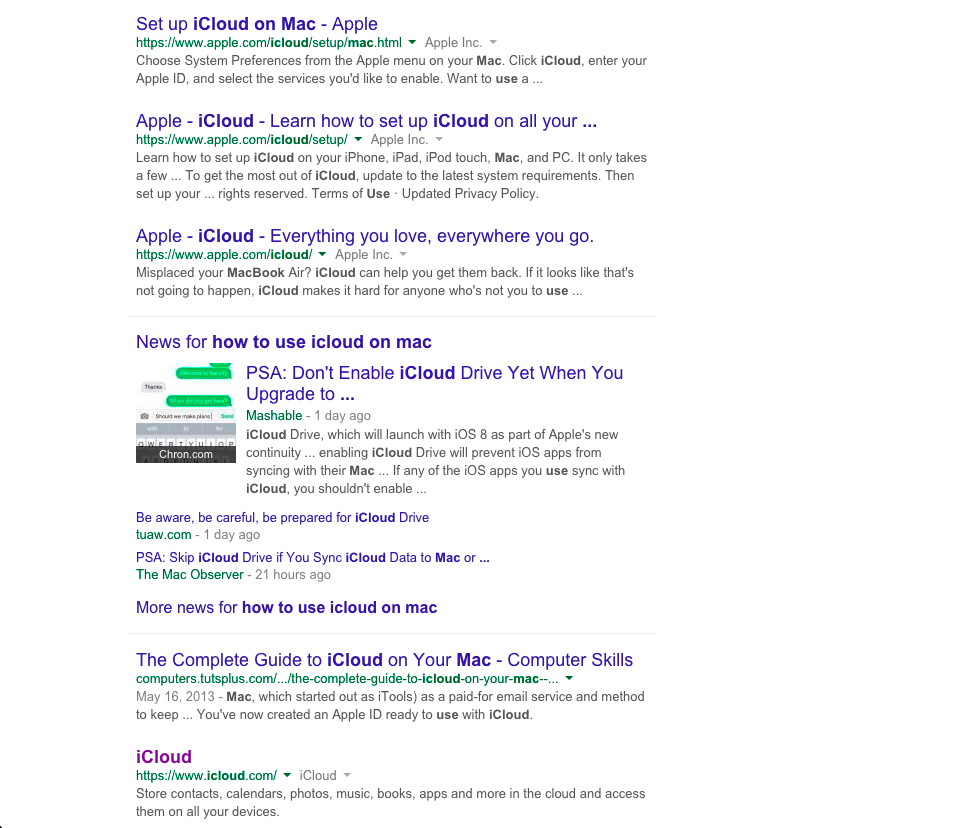
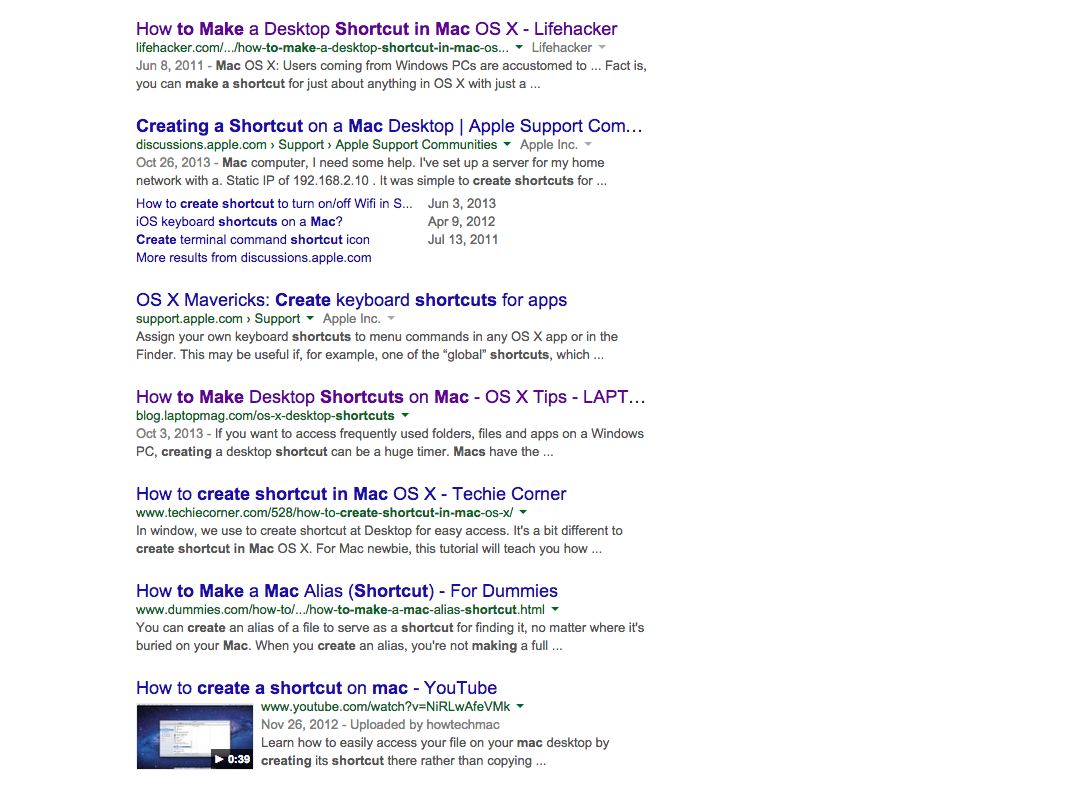
Search for creating aliases and help lines

Changed region(s): [[0.1233, 0.0, 0.6783, 1.0]]

diff --git a/js/jquery.domline.min.js b/js/jquery.domline.min.js
@@ -1,0 +1,27 @@
+/*!
+ * jQuery DOM Line plugin v0.1.3
+ * Copyright (c) 2011 Gilmore Davidson
+ * https://gilmoreorless.github.com/jquery-dom-line/
+ *
+ * @license Open source under the MIT licence: http://gilmoreorless.mit-license.org/2011/
+ */
+!function(t,e){function r(t){return t.x===e&&t.y===e?!1:(t.x=parseFloat(t.x)||0,t.y=parseFloat(t.y)||0,t)}function a(e,r,a){var n=[e.x,e.y,r.x,r.y,a.w,a.h].join(",");if(o[n])return t.extend({},o[n]);var i,s=Math.abs(r.x-e.x),l=Math.abs(r.y-e.y),h=s&&l?Math.sqrt(s*s+l*l):s||l,d=Math.min(e.x,r.x),u=Math.min(e.y,r.y),x=d+s/2,c=u+l/2,p=x-h/2,y=c,b=o[n]={width:h};return a.w>1&&(b.width-=a.w-1),a.h>1&&(y-=a.h/2),a.bw&&(p+=a.bw/2),a.bh&&(y+=a.bh/2),t.support.matrixFilter||(p-=a.l,y-=a.t),p=Math.round(p),y=Math.round(y),b.width=Math.round(b.width),i=s?l?(180+180*Math.atan2(e.y-r.y,e.x-r.x)/Math.PI+360)%360:e.x<r.x?0:180:e.y<r.y?90:270,b.transform="rotate("+i+"deg)",b.left=p,b.top=y,b.extra={center:{x:x,y:c},rotation:{deg:i,rad:i%360*Math.PI/180}},t.extend({},b)}var o={};t.line=function(e,o,n){if(e=r(e),o=r(o),!e||!o)return!1;var i,s,l,h=t.extend({},t.line.defaults,n||{}),d=h.elem?t(h.elem):t("<div/>",{"class":h.className}),u={position:"absolute",backgroundColor:h.lineColor,width:1,height:h.lineWidth},x=d;return d.css(u),d.length&&!d[0].parentNode&&d.appendTo("body"),s={w:d.outerWidth(),h:d.outerHeight(),l:parseFloat(d.css("marginLeft"))||0,t:parseFloat(d.css("marginTop"))||0},t.support.matrixFilter&&(s.bw=(parseFloat(d.css("borderLeftWidth"))||0)+(parseFloat(d.css("borderRightWidth"))||0),s.bh=(parseFloat(d.css("borderTopWidth"))||0)+(parseFloat(d.css("borderBottomWidth"))||0)),i=a(e,o,s),l=i.extra,delete i.extra,d.css(i),h.returnValues&&(x={from:e,to:o,center:l.center,rotation:l.rotation}),x},t.line.defaults={elem:"",className:"jquery-line",lineWidth:1,lineColor:"#000",returnValues:!1}}(jQuery);
+/*
+ * transform: A jQuery cssHooks adding cross-browser 2d transform capabilities to $.fn.css() and $.fn.animate()
+ *
+ * limitations:
+ * - requires jQuery 1.4.3+
+ * - Should you use the *translate* property, then your elements need to be absolutely positionned in a relatively positionned wrapper **or it will fail in IE678**.
+ * - transformOrigin is not accessible
+ *
+ * latest version and complete README available on Github:
+ * https://github.com/louisremi/jquery.transform.js
+ *
+ * Copyright 2011 @louis_remi
+ * Licensed under the MIT license.
+ *
+ * This saved you an hour of work?
+ * Send me music http://www.amazon.co.uk/wishlist/HNTU0468LQON
+ *
+ */
+if(!jQuery.cssHooks.transform)!function(t,e,r,s,n){function a(e){e=e.split(")");var r,n,a,i=t.trim,o=-1,c=e.length-1,p=O?new Float32Array(6):[],l=O?new Float32Array(6):[],f=O?new Float32Array(6):[1,0,0,1,0,0];for(p[0]=p[3]=f[0]=f[3]=1,p[1]=p[2]=p[4]=p[5]=0;++o<c;){switch(r=e[o].split("("),n=i(r[0]),a=r[1],l[0]=l[3]=1,l[1]=l[2]=l[4]=l[5]=0,n){case Y+"X":l[4]=parseInt(a,10);break;case Y+"Y":l[5]=parseInt(a,10);break;case Y:a=a.split(","),l[4]=parseInt(a[0],10),l[5]=parseInt(a[1]||0,10);break;case j:a=u(a),l[0]=s.cos(a),l[1]=s.sin(a),l[2]=-s.sin(a),l[3]=s.cos(a);break;case H+"X":l[0]=+a;break;case H+"Y":l[3]=a;break;case H:a=a.split(","),l[0]=a[0],l[3]=a.length>1?a[1]:a[0];break;case $+"X":l[2]=s.tan(u(a));break;case $+"Y":l[1]=s.tan(u(a));break;case z:a=a.split(","),l[0]=a[0],l[1]=a[1],l[2]=a[2],l[3]=a[3],l[4]=parseInt(a[4],10),l[5]=parseInt(a[5],10)}f[0]=p[0]*l[0]+p[2]*l[1],f[1]=p[1]*l[0]+p[3]*l[1],f[2]=p[0]*l[2]+p[2]*l[3],f[3]=p[1]*l[2]+p[3]*l[3],f[4]=p[0]*l[4]+p[2]*l[5]+p[4],f[5]=p[1]*l[4]+p[3]*l[5]+p[5],p=[f[0],f[1],f[2],f[3],f[4],f[5]]}return f}function i(t){var e,r,n,a=t[0],i=t[1],o=t[2],c=t[3];return a*c-i*o?(e=s.sqrt(a*a+i*i),a/=e,i/=e,n=a*o+i*c,o-=a*n,c-=i*n,r=s.sqrt(o*o+c*c),o/=r,c/=r,n/=r,i*o>a*c&&(a=-a,i=-i,n=-n,e=-e)):e=r=n=0,[[Y,[+t[4],+t[5]]],[j,s.atan2(i,a)],[$+"X",s.atan(n)],[H,[e,r]]]}function o(e,r){var s,n,o,u,m={start:[],end:[]},x=-1;if(("none"==e||p(e))&&(e=""),("none"==r||p(r))&&(r=""),e&&r&&!r.indexOf("matrix")&&g(e).join()==g(r.split(")")[0]).join()&&(m.origin=e,e="",r=r.slice(r.indexOf(")")+1)),e||r){if(e&&r&&l(e)!=l(r))m.start=i(a(e)),m.end=i(a(r));else for(e&&(e=e.split(")"))&&(s=e.length),r&&(r=r.split(")"))&&(s=r.length);++x<s-1;)e[x]&&(n=e[x].split("(")),r[x]&&(o=r[x].split("(")),u=t.trim((n||o)[0]),f(m.start,c(u,n?n[1]:0)),f(m.end,c(u,o?o[1]:0));return m}}function c(t,e){var r,s=+!t.indexOf(H),n=t.replace(/e[XY]/,"e");switch(t){case Y+"Y":case H+"Y":e=[s,e?parseFloat(e):s];break;case Y+"X":case Y:case H+"X":r=1;case H:e=e?(e=e.split(","))&&[parseFloat(e[0]),parseFloat(e.length>1?e[1]:t==H?r||e[0]:s+"")]:[s,s];break;case $+"X":case $+"Y":case j:e=e?u(e):0;break;case z:return i(e?g(e):[1,0,0,1,0,0])}return[[n,e]]}function p(t){return v.test(t)}function l(t){return t.replace(/(?:\([^)]*\))|\s/g,"")}function f(t,e,r){for(;r=e.shift();)t.push(r)}function u(t){return~t.indexOf("deg")?parseInt(t,10)*(2*s.PI/360):~t.indexOf("grad")?parseInt(t,10)*(s.PI/200):parseFloat(t)}function g(t){return t=/([^,]*),([^,]*),([^,]*),([^,]*),([^,p]*)(?:px)?,([^)p]*)(?:px)?/.exec(t),[t[1],t[2],t[3],t[4],t[5],t[6]]}for(var m,x,d,k,h=r.createElement("div"),y=h.style,b="Transform",I=["O"+b,"ms"+b,"Webkit"+b,"Moz"+b],M=I.length,O=("Float32Array"in e),X=/Matrix([^)]*)/,v=/^\s*matrix\(\s*1\s*,\s*0\s*,\s*0\s*,\s*1\s*(?:,\s*0(?:px)?\s*){2}\)\s*$/,w="transform",F="transformOrigin",Y="translate",j="rotate",H="scale",$="skew",z="matrix";M--;)I[M]in y&&(t.support[w]=m=I[M],t.support[F]=m+"Origin");m||(t.support.matrixFilter=x=""===y.filter),t.cssNumber[w]=t.cssNumber[F]=!0,m&&m!=w?(t.cssProps[w]=m,t.cssProps[F]=m+"Origin",m=="Moz"+b?d={get:function(e,r){return r?t.css(e,m).split("px").join(""):e.style[m]},set:function(t,e){t.style[m]=/matrix\([^)p]*\)/.test(e)?e.replace(/matrix((?:[^,]*,){4})([^,]*),([^)]*)/,z+"$1$2px,$3px"):e}}:/^1\.[0-5](?:\.|$)/.test(t.fn.jquery)&&(d={get:function(e,r){return r?t.css(e,m.replace(/^ms/,"Ms")):e.style[m]}})):x&&(d={get:function(e,r,s){var a,i,o=r&&e.currentStyle?e.currentStyle:e.style;return o&&X.test(o.filter)?(a=RegExp.$1.split(","),a=[a[0].split("=")[1],a[2].split("=")[1],a[1].split("=")[1],a[3].split("=")[1]]):a=[1,0,0,1],t.cssHooks[F]?(i=t._data(e,"transformTranslate",n),a[4]=i?i[0]:0,a[5]=i?i[1]:0):(a[4]=o?parseInt(o.left,10)||0:0,a[5]=o?parseInt(o.top,10)||0:0),s?a:z+"("+a+")"},set:function(e,r,s){var n,i,o,c,p=e.style;s||(p.zoom=1),r=a(r),i=["Matrix(M11="+r[0],"M12="+r[2],"M21="+r[1],"M22="+r[3],"SizingMethod='auto expand'"].join(),o=(n=e.currentStyle)&&n.filter||p.filter||"",p.filter=X.test(o)?o.replace(X,i):o+" progid:DXImageTransform.Microsoft."+i+")",t.cssHooks[F]?t.cssHooks[F].set(e,r):((c=t.transform.centerOrigin)&&(p["margin"==c?"marginLeft":"left"]=-(e.offsetWidth/2)+e.clientWidth/2+"px",p["margin"==c?"marginTop":"top"]=-(e.offsetHeight/2)+e.clientHeight/2+"px"),p.left=r[4]+"px",p.top=r[5]+"px")}}),d&&(t.cssHooks[w]=d),k=d&&d.get||t.css,t.fx.step.transform=function(e){var r,n,a,i,c=e.elem,p=e.start,l=e.end,f=e.pos,u="",g=1e5;for(p&&"string"!=typeof p||(p||(p=k(c,m)),x&&(c.style.zoom=1),l=l.split("+=").join(p),t.extend(e,o(p,l)),p=e.start,l=e.end),r=p.length;r--;)switch(n=p[r],a=l[r],i=0,n[0]){case Y:i="px";case H:i||(i=""),u=n[0]+"("+s.round((n[1][0]+(a[1][0]-n[1][0])*f)*g)/g+i+","+s.round((n[1][1]+(a[1][1]-n[1][1])*f)*g)/g+i+")"+u;break;case $+"X":case $+"Y":case j:u=n[0]+"("+s.round((n[1]+(a[1]-n[1])*f)*g)/g+"rad)"+u}e.origin&&(u=e.origin+u),d&&d.set?d.set(c,u,1):c.style[m]=u},t.transform={centerOrigin:"margin"}}(jQuery,window,document,Math);

diff --git a/main.js b/main.js
@@ -3,6 +3,7 @@ requirejs.config({
 	paths: {
 		"jquery": "jquery-1.11.0.min",
 		"jqueryui": "jquery-ui-1.11.1.custom.min",
+		"jquery.domline": "jquery.domline.min"
 	},
 	
 	shim: {
@@ -13,11 +14,15 @@ requirejs.config({
 			"notify.min": {
 				export: "$",
 				deps: ['jquery']
+			},
+			"jquery.domline": {
+				export: "$",
+				deps: ['jquery']
 			}
 		}
 });
 
-require(["jquery", "vex.dialog.min", "imagesloaded.pkgd.min", "jqueryui", "jquery.layout-latest", "notify.min", "TOC", "CardManager"], function ($, dialog, imagesLoaded) {
+require(["jquery", "vex.dialog.min", "imagesloaded.pkgd.min", "jquery.domline", "jqueryui", "jquery.layout-latest", "notify.min", "TOC", "CardManager"], function ($, dialog, imagesLoaded) {
 	var pageLayout = $("body").layout({
 										applyDefaultStyles: true, resizable: false, slidable: false, closable: false,
 										spacing_open: 0, spacing_closed: 0,
@@ -115,6 +120,7 @@ require(["jquery", "vex.dialog.min", "imagesloaded.pkgd.min", "jqueryui", "jquer
 	
 	var started = false;
 	var shownHelp = false;
+	var fromSearch = false;
 	
 	var currentAd = undefined;
 	var inAd = false;
@@ -152,6 +158,11 @@ require(["jquery", "vex.dialog.min", "imagesloaded.pkgd.min", "jqueryui", "jquer
 	
 	imagesLoaded(document, onImagesLoaded);
 	
+	if (location.search != "") {
+		fromSearch = true;
+		loadContents(0, "Creating Aliases");
+	}
+	
 	function onImagesLoaded () {
 		$("#screen-cover").css("background-color", "rgba(0, 0, 0, .7)");
 
@@ -179,7 +190,78 @@ require(["jquery", "vex.dialog.min", "imagesloaded.pkgd.min", "jqueryui", "jquer
 		$("#screen-cover").hide();
 		$("#buy-now-container").hide();
 		
-		showLeftMessage("#left-message-intro", true);
+		if (!fromSearch) {
+			showLeftMessage("#left-message-intro", true);
+			
+			setTimeout(function () { drawLines(); }, 1500);
+		} else if (fromSearch) {
+			showLeftMessage("#left-message-help", true);
+			shownHelp = true;
+		}
+	}
+	
+	function drawLines () {
+		var elem1 = $("#popular");
+		var bounds1 = elem1[0].getBoundingClientRect();
+		var pt1 = { x: bounds1.left + bounds1.width * .5, y: bounds1.top + bounds1.height };
+		var popularX = bounds1.left + bounds1.width * .5;
+
+		var elem2 = $("#bottom-bar");
+		var bounds2 = elem2[0].getBoundingClientRect();
+		var pt2 = { x: bounds1.left + bounds1.width * .5, y: bounds2.top };
+		
+		var options = { lineWidth: 4, lineColor: "#FFEB5F" };
+				
+		$.line(pt1, pt2, options);
+		
+		elem1 = $("#search");
+		bounds1 = elem1[0].getBoundingClientRect();
+		pt1 = { x: bounds1.left + bounds1.width * .5, y: bounds1.top + bounds1.height };
+		var searchX = bounds1.left + bounds1.width * .5;
+		
+		elem2 = $("#left-message-intro");
+		var bounds3 = elem2[0].getBoundingClientRect();
+			
+		pt2 = { x: bounds1.left + bounds1.width * .5, y: (bounds3.top + bounds3.height + bounds2.top) * .5 };
+
+		$.line(pt1, pt2, options);
+		
+		if (searchX > popularX) {
+		
+			var elem3 = $("#content-pane");
+			var bounds4 = elem3[0].getBoundingClientRect();
+		
+			pt1 = { x: bounds4.left + bounds4.width, y: pt2.y };
+			
+			$.line(pt2, pt1, options);
+		
+			elem1 = $("#left-message-intro");
+			bounds1 = elem1[0].getBoundingClientRect();
+			elem2 = $("#nav-container");
+			bounds2 = elem2[0].getBoundingClientRect();
+		
+			pt2 = { x: pt1.x, y: (bounds1.top + bounds2.top) * .5 };
+		
+			$.line(pt1, pt2, options);
+		
+			elem1 = $("#toc-button");
+			bounds1 = elem1[0].getBoundingClientRect();
+			pt1 = { x: bounds1.left + bounds1.width * .5, y: bounds1.top + bounds1.height };
+		
+			$.line(pt2, { x: pt1.x, y: pt2.y }, options);
+			$.line({ x: pt1.x, y: pt2.y }, pt1, options);
+		} else {
+			elem1 = $("#toc-button");
+			bounds1 = elem1[0].getBoundingClientRect();
+			pt1 = { x: bounds1.left + bounds1.width * .5, y: bounds1.top + bounds1.height };
+		
+			$.line(pt2, { x: pt1.x, y: pt2.y }, options);
+			$.line({ x: pt1.x, y: pt2.y }, pt1, options);
+		}
+	}
+	
+	function eraseLines () {
+		$(".jquery-line").remove();
 	}
 	
 	function checkForCaptivate () {
@@ -204,6 +286,10 @@ require(["jquery", "vex.dialog.min", "imagesloaded.pkgd.min", "jqueryui", "jquer
 		pushContentDownForTitle();
 		
 		showLeftMessage("#left-message-intro", false);
+		
+		if ($("#left-message-intro").is(":visible")) {
+			setTimeout(function () { eraseLines(); drawLines(); }, 250);
+		}
 	}
 	
 	function pushContentDownForTitle () {
@@ -376,6 +462,7 @@ require(["jquery", "vex.dialog.min", "imagesloaded.pkgd.min", "jqueryui", "jquer
 	function playWatchIt () {
 		hideHints();
 		$(".left-message").css("display", "none");
+		eraseLines();
 		
 //		var check = $("#success-box");
 //		check.hide();
@@ -398,6 +485,7 @@ require(["jquery", "vex.dialog.min", "imagesloaded.pkgd.min", "jqueryui", "jquer
 	function playTryIt () {
 		hideHints();
 		$(".left-message").css("display", "none");
+		eraseLines();
 		
 //		var check = $("#success-box");
 //		check.hide();
@@ -461,6 +549,7 @@ require(["jquery", "vex.dialog.min", "imagesloaded.pkgd.min", "jqueryui", "jquer
 	
 	function loadContents (index, title, watch_or_try) {
 		$(".left-message").css("display", "none");
+		eraseLines();
 		
 		currentIndex = index;
 		
@@ -478,7 +567,7 @@ require(["jquery", "vex.dialog.min", "imagesloaded.pkgd.min", "jqueryui", "jquer
 			$("#big-title").css("display", "block");
 			$("#big-title").addClass("animated rotateInDownLeft");
 			
-			if (!shownHelp && watch_or_try == undefined) {
+			if (!fromSearch && !shownHelp && watch_or_try == undefined) {
 				showLeftMessage("#left-message-help", true);
 				shownHelp = true;
 			}
@@ -616,5 +705,6 @@ require(["jquery", "vex.dialog.min", "imagesloaded.pkgd.min", "jqueryui", "jquer
 	
 	function onClickMessage (event) {
 		$(event.currentTarget).removeClass("animated rollIn").addClass("animated zoomOutDown");
+		eraseLines();
 	}
 });

diff --git a/google-results.html b/google-results.html
@@ -92,9 +92,9 @@
 <img id="fake-results" src="css/images/GoogleResults.png"/>
 <div class="heading">
 	<div id="result">
-		<div class="title"><a href="index.html">Using iCloud on the Mac</a></div>
-		<div class="url">https://ondemand.quepublishing.com/mavericks.html<a><span class="downarrow"></span></a><span class="company">Pearson</span><a class="company"><span class="downarrow"</span></a></div>
-		<div class="desc">After you enable an iCloud service on a device … You can specify what type of information is stored in iCloud …</div>
+		<div class="title"><a href="index.html?Creating%20Aliases">Creating Aliases</a></div>
+		<div class="url">https://ondemand.quepublishing.com/CreatingAliases.html<a><span class="downarrow"></span></a><span class="company">Pearson</span><a class="company"><span class="downarrow"</span></a></div>
+		<div class="desc">To save some time, you can create shortcuts to the items you use frequently. Aliases are shortcuts that point to a folder or file … When you create an alias to a folder or file, the icon includes a little arrow in the lower-left corner …</div>
 	</div>
 </div>
 </body>

diff --git a/index.html b/index.html
@@ -61,7 +61,7 @@
 		</div>
 		<div class="interior">
 			<h1>Welcome to on<span style="color: red">Demand</span></h1>
-			<p>Try one of our most <span style="color: #fe6">popular</span> lessons or <span style="color: #fe6">search</span> for exactly the one you need.</p>
+			<p>Try one of our most <span style="color: #fe6" id="popular">popular</span> lessons or <span style="color: #fe6" id="search">search</span> for exactly the one you need.</p>
 		</div>
 	</div>
 	<div id="left-message-help" class="left-message">
